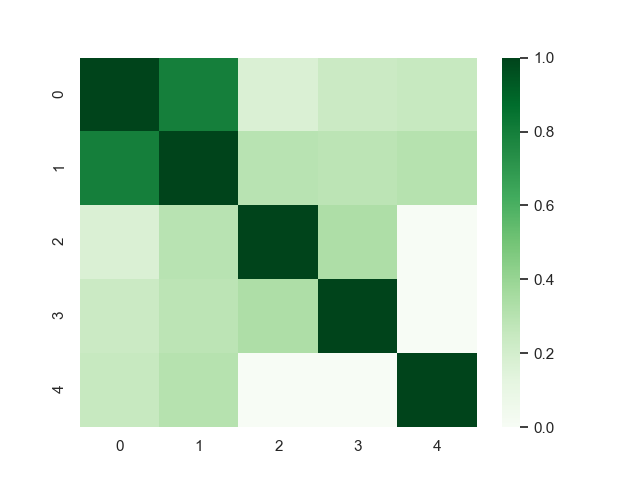
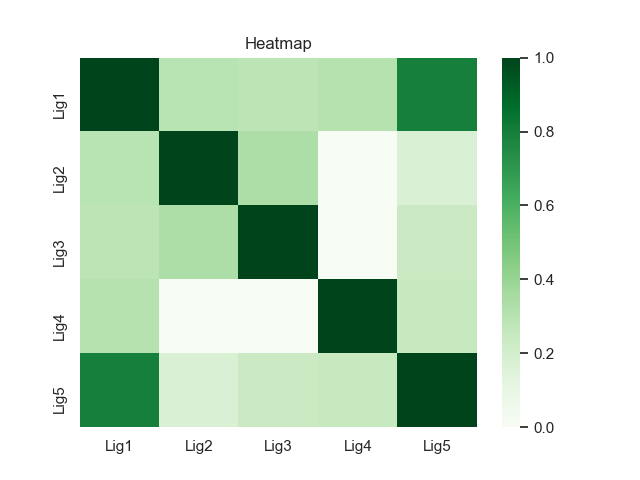
second

diff --git a/TESTING.py b/TESTING.py
@@ -1,41 +1,27 @@
-#!/Users/Justine/Anaconda3/envs/my-rdkit-env/python
+#! /usr/bin/my-rdkit-env
 
 
 #from rdkit import DataStructs
 #from rdkit import Chem, RDConfig
 #from RDConfig import RDBaseDir
-#from rdkit.Chem import AllChem, rdMolAlign
+from rdkit.Chem import AllChem, rdMolAlign
 import os
 #import fpkit.similarity as fps
 #import fpkit.filters as filters
 #import pandas as pd
 import oddt
 import oddt.fingerprints as fp
-import openbabel
 #import os
 import numpy as np
 import glob
 import sys
 
 
-
-#sys.modules['oddt'] = oddt
-
 #import pymol
 # Main function
 
-
-
-#Heat Map
-#import matplotlib.pyplot as plt
-import seaborn as sns
 import numpy as np
 
-def CreateHeatMap(fingerprint_data, Ligands, Type):
-    sns.set()
-    ax = sns.heatmap(fingerprint_data, cmap="Greens", xticklabels= Ligands, yticklabels= Ligands)
-    ax.set(title = Type)
-    ax.figure.savefig(Type + ".png")
 
 ##########################################################################################
 
@@ -93,7 +79,6 @@ def Fingerprint(proteinName, Listoflig, Type):
         cur_row += 1
     print(All_Fingerprint)
     Fingerprint_write(Listoflig, All_Fingerprint, Type)
-    CreateHeatMap(All_Fingerprint, Listoflig, Type)
 
     # Ideally the create heat map would be in the wrapper
     return Listoflig, All_Fingerprint
@@ -331,7 +316,7 @@ def ProteintoLigList(pfile):
     return protein_name, Saved_Complexes
 
 
-os.chdir(r"C:\Users\Justine\PycharmProjects\Oligomer_script\Vina_docking\Dimers\Oligomer_Analysis\1FX9")
+os.chdir(r"C:\Users\Justine\PycharmProjects\Oligomer_script\Vina_docking\Trimers\comp_metalloprotein")
 
 def Fingerprint_Wrapper(pfile, Type):
     # Takes in the protein file as well as the type of operation that will be performed
@@ -343,15 +328,16 @@ def Fingerprint_Wrapper(pfile, Type):
     pfile = proteinName.rsplit('.', 1)[0] + '.pdb'
     print(pfile)
     Listoflig, All_Fingerprint = Fingerprint(pfile, Saved_Complexes, Type)
-    CreateHeatMap(All_Fingerprint, Listoflig, Type)
+   # CreateHeatMap(All_Fingerprint, Listoflig, Type)
 
 #os.chdir(r"C:\Users\Justine\PycharmProjects\Oligomer_script\Vina_docking\Dimers\Docking\1FX9")
 
 
 
 #proteinpath = '1fx9.pdbqt'
-lig1 = 'lig30.pdb'
-lig2 = 'lig31.pdb'
+lig1 = 'rot1.pdb'
+lig2 = 'rot2.pdb'
+lig3 = 'rot3.pdb'
 #lig3 = 'tlig7.pdb'
 #lig4 = 'lig4.pdb'
 #lig5 = 'lig5.pdb'
@@ -369,18 +355,15 @@ lig2 = 'lig31.pdb'
 #prot = r"C:\Users\Justine\PycharmProjects\Oligomer_script\Vina_docking\Dimers\Docking\1FX9\1fx9_nohet.pdb"
 #prot = r"C:\Users\Justine\PycharmProjects\Oligomer_script\Vina_docking\Dimers\Docking\1FX9\1fx9_nohet.pdb"
 #prot = r"C:\Users\Justine\PycharmProjects\Oligomer_script\Vina_docking\Dimers\Docking\1Z9N\proty.pdb"
-#prot = r'C:\Users\Justine\PycharmProjects\Oligomer_script\Vina_docking\Dimers\Oligomer_Analysis\3HSY\proteinnn.pdb'
-prot = r'C:\Users\Justine\PycharmProjects\Oligomer_script\Vina_docking\Dimers\Oligomer_Analysis\1FX9\proteinp.pdb'
+prot = r'C:\Users\Justine\PycharmProjects\Oligomer_script\Vina_docking\Trimers\comp_metalloprotein\5eil.pdb'
 #Fingerprint_Wrapper(prot, "SPLIF")
 ######################################################################################################################
 
 #print(ProteintoLigList(prot))
 
-LList = [lig1, lig1]
+LList = [lig1, lig2, lig3]
 
-#Fingerprint(prot, LList, "SInteraction")
-#Fingerprint(prot, LList, "Interaction")
-Fingerprint(prot, LList, "SPLIF")
+Fingerprint(prot, LList, "SInteraction")
 
 
 ######################################################################################################################
@@ -390,16 +373,6 @@ Fingerprint(prot, LList, "SPLIF")
 #LigNum = 5  # 5 total
 #fingerprint_data = open("Fingerprint.csv", 'r')
 
-#CreateHeatMap(fingerprint_data, ["Lig1", "Lig2", "Lig3", "Lig4", "Lig5"])
-
-
-
-
-
-
-
-
-
 
 #Fingerprint(prot, [lig1, lig2], "Interaction")
-
+#Fingerprint(prot, [lig1, lig1, lig3], "SPLIF")

diff --git a/Heatmap.py b/Heatmap.py
@@ -1,51 +1,48 @@
 import matplotlib.pyplot as plt
 import seaborn as sns
 import numpy as np
-np.random.seed(0)
-sns.set()
+
+
+def CreateHeatMap(fingerprint_data, Ligands):
+    sns.set()
+    LigNum = len(Ligands)
+
+    data = np.empty((LigNum, LigNum), dtype=float)
+
+    l_count = 0
+    for line in fingerprint_data:
+        col_count = 0
+        for item in line.split(','):
+          #  print("is num: " + str(item))
+            col = col_count-1
+         #   print(str(l_count) + " " + str(col))
+            data[l_count-1, col] = item
+         #   print(item)
+            col_count += 1
+        l_count += 1
+
+    print(data)
+
+    #ax = sns.heatmap(uniform_data)
+
+    #flights_long = sns.load_dataset("Fingerprint.csv")
+    #flights = flights_long.pivot("ligand", "ligand", "passengers")
+
+    # Draw a heatmap with the numeric values in each cell
+    #f, ax = plt.subplots(figsize=(9, 6))
+    #sns.heatmap(uniform_data, annot=True, fmt="d", linewidths=.5, ax=ax)
+    #uniform_data = uniform_data.pivot([], "year", "passengers")
+    ax = sns.heatmap(data, cmap="Greens", xticklabels= Ligands, yticklabels= Ligands)
+    ax.set(title = 'Heatmap')
+
+    #ax.savefig("Fingerprint.png")
+    #sns_plot = sns.pairplot(ax, hue='species', size=2.5)
+    ax.figure.savefig("output.png")
+
 
 # Load the example flights dataset and convert to long-form
 LigNum = 5  # 5 total
 fingerprint_data = open("Fingerprint.csv", 'r')
 
-uniform_data = np.empty((LigNum, LigNum), dtype=float)
-
-l_count = 0
-for line in fingerprint_data:
-   # print(line)
-    if l_count == 0:
-        pass
-
-    col_count = 0
-    for item in line.split(','):
-        if col_count == 0:
-            col_count +=1
-        else:
-            print("is num: " + str(item))
-            col = col_count-1
-            print(str(l_count) + " " + str(col))
-            uniform_data[l_count-1, col] = item
-            print(item)
-           # print(uniform_data[l_count-1, col])
-            col_count += 1
-
-    l_count += 1
-
-
-print(uniform_data)
-
-#ax = sns.heatmap(uniform_data)
-
-#flights_long = sns.load_dataset("Fingerprint.csv")
-#flights = flights_long.pivot("ligand", "ligand", "passengers")
-
-# Draw a heatmap with the numeric values in each cell
-#f, ax = plt.subplots(figsize=(9, 6))
-#sns.heatmap(uniform_data, annot=True, fmt="d", linewidths=.5, ax=ax)
-#uniform_data = uniform_data.pivot([], "year", "passengers")
-dp = sns.heatmap(uniform_data, cmap="Greens")
-#ax.savefig("Fingerprint.png")
-#sns_plot = sns.pairplot(ax, hue='species', size=2.5)
-dp.figure.savefig("output.png")
-
+CreateHeatMap(fingerprint_data, ["Lig1", "Lig2", "Lig3", "Lig4", "Lig5"])
 

diff --git a/__init__.py b/__init__.py
@@ -1,10 +1,11 @@
 
+
 from __future__ import absolute_import
 from __future__ import print_function
 
 from .Olig import InputFileDir
 
-from .Fingerprint import Fingerprint_Wrapper
+#from .Fingerprint import Fingerprint_Wrapper
 
 from PyQt5.uic import loadUi
 import sys
@@ -82,7 +83,6 @@ def make_dialog():
         file_text = QFilename[0]
 
     def fingerprint():
-        Test()
         pass
 
     def run():
